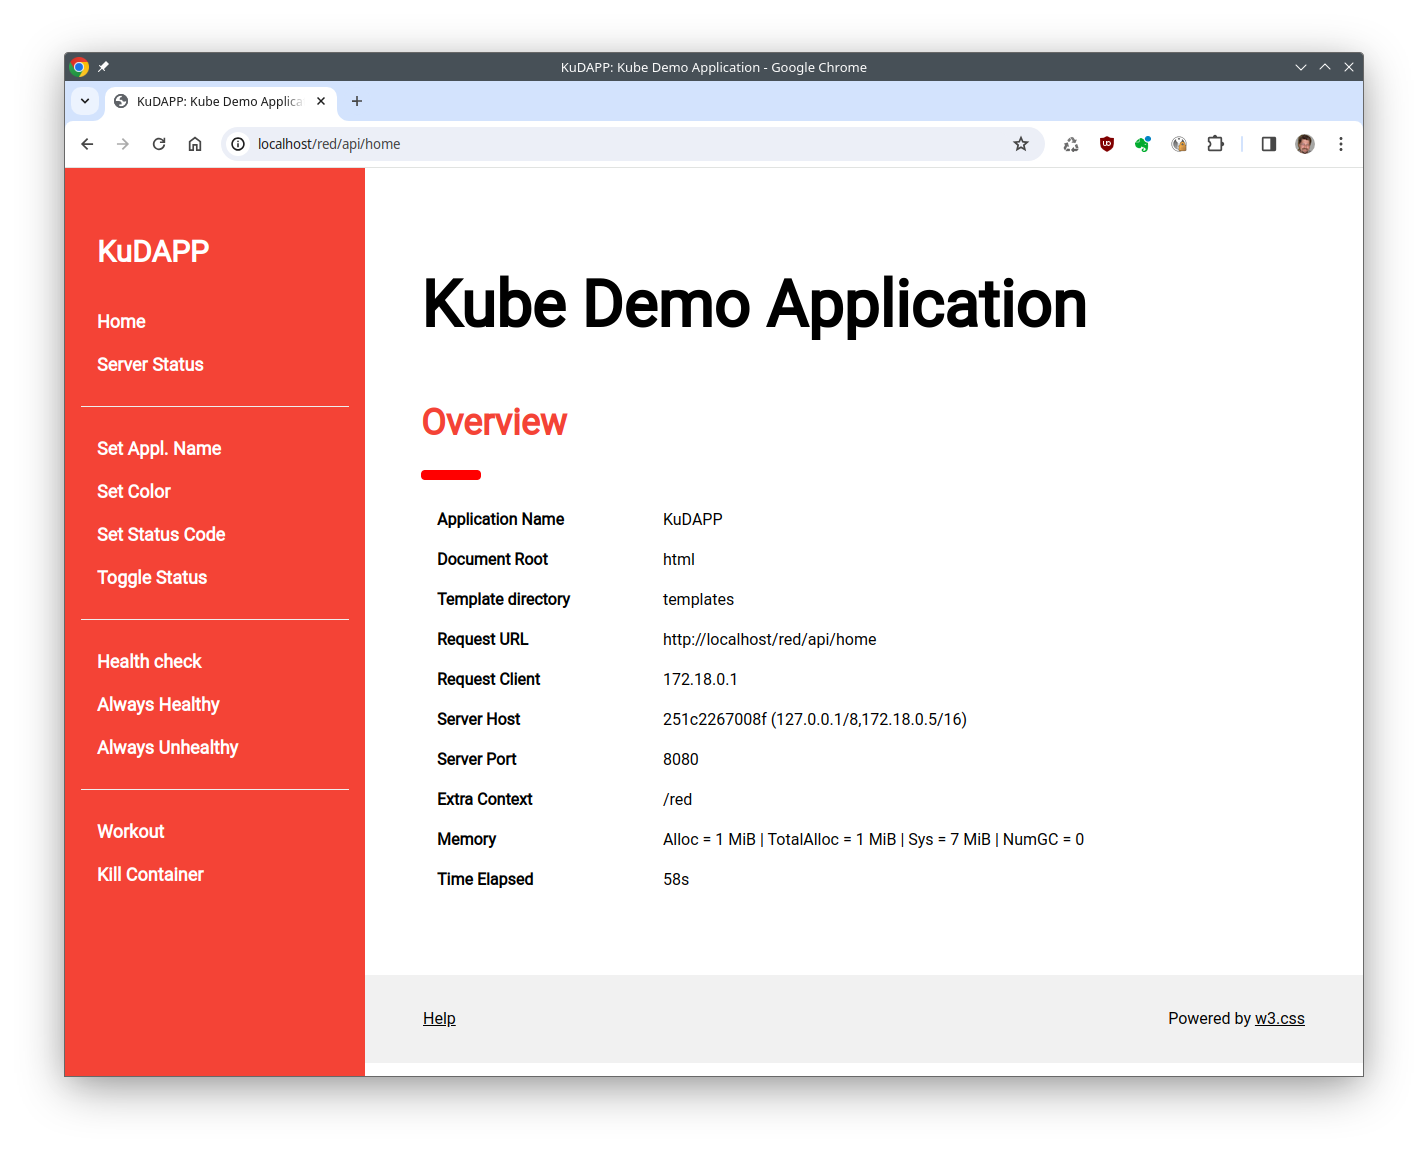
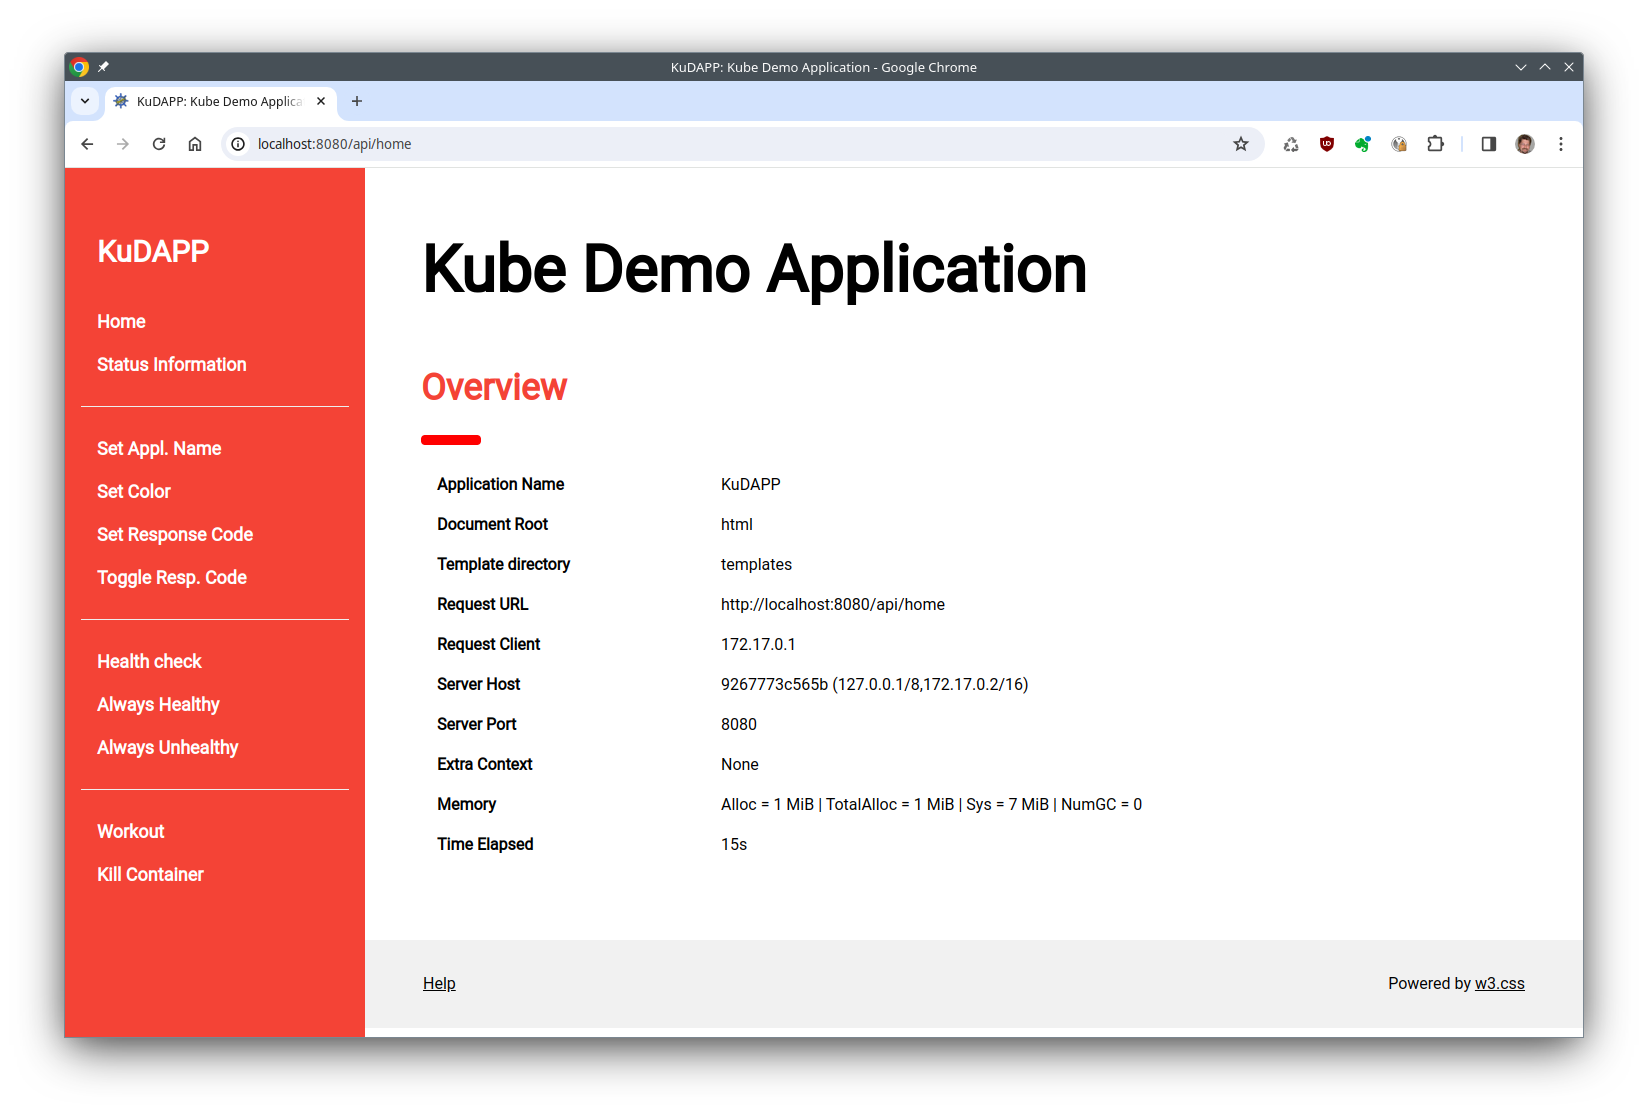
Update doc

Changed region(s): [[0.0308, 0.0305, 0.986, 0.9461], [0.4314, 0.4273, 0.7395, 0.763]]

diff --git a/README.md b/README.md
@@ -15,7 +15,7 @@ After start up, an instance provides the following URLs (with optional prefix):
 - **Startpage: \[/prefix\]/api/home**
   Displays the startpage with a short information summary
   
-- **Server Status: \[/prefix\]/api/status**
+- **Status Information: \[/prefix\]/api/status**
   Get some information as seen from 'inside'. This includes all request headers, some system information and all environment variables in the running container
   
 - **Set Appl. Name:  \[/prefix\]/api/setname**
@@ -23,10 +23,10 @@ After start up, an instance provides the following URLs (with optional prefix):
   
 - **Set Color:  \[/prefix\]/api/setcolor**
   Play with background colors. This may help to distinguish several instances in a pool or backend
-- **Set Status Code: \[/prefix\]/api/setstatus**
+- **Set Response Code: \[/prefix\]/api/setstatus**
   Set the HTTP response status code to a certain value. This is the value returned by the /check URL
   
-- **Toggle Status: \[/prefix\]/api/togglestatus**
+- **Toggle Resp. Code: \[/prefix\]/api/togglestatus**
   Switch the response status code between 200 and 500. This is a shortcut for setting an individual value
   
 - **Health Check: \[/prefix\]/check**
